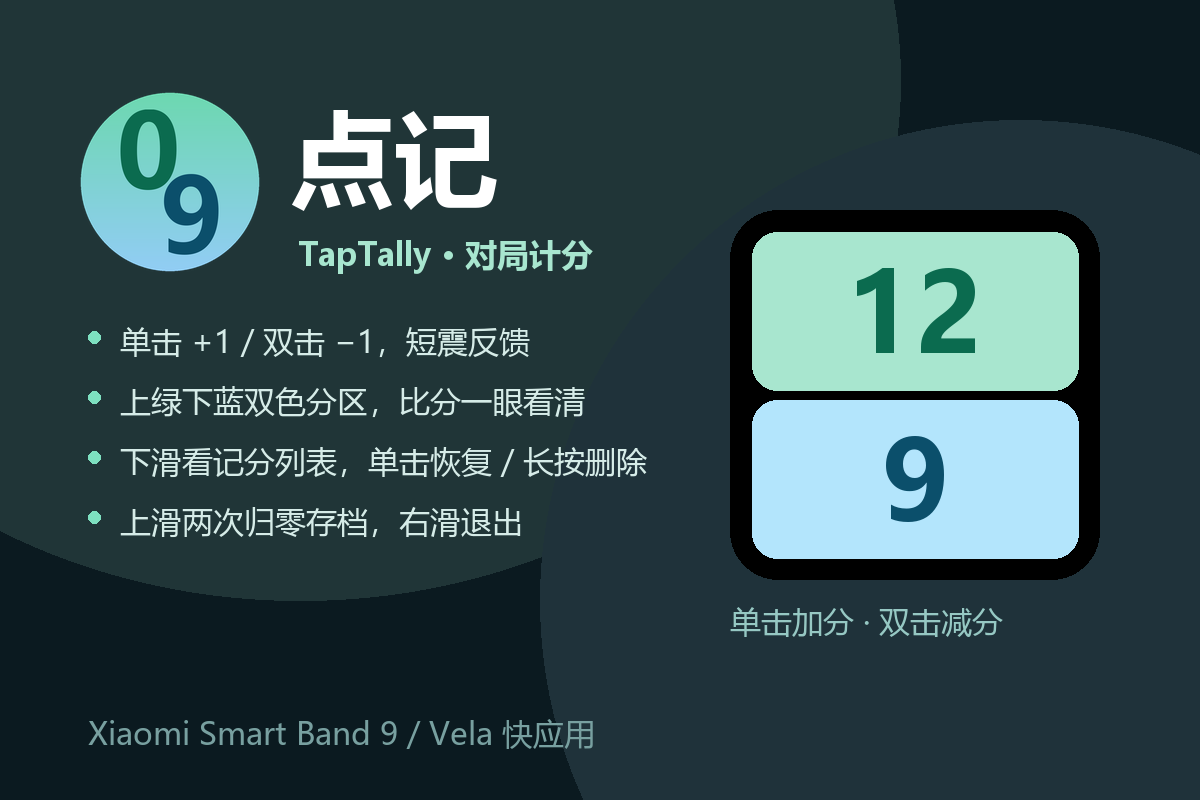
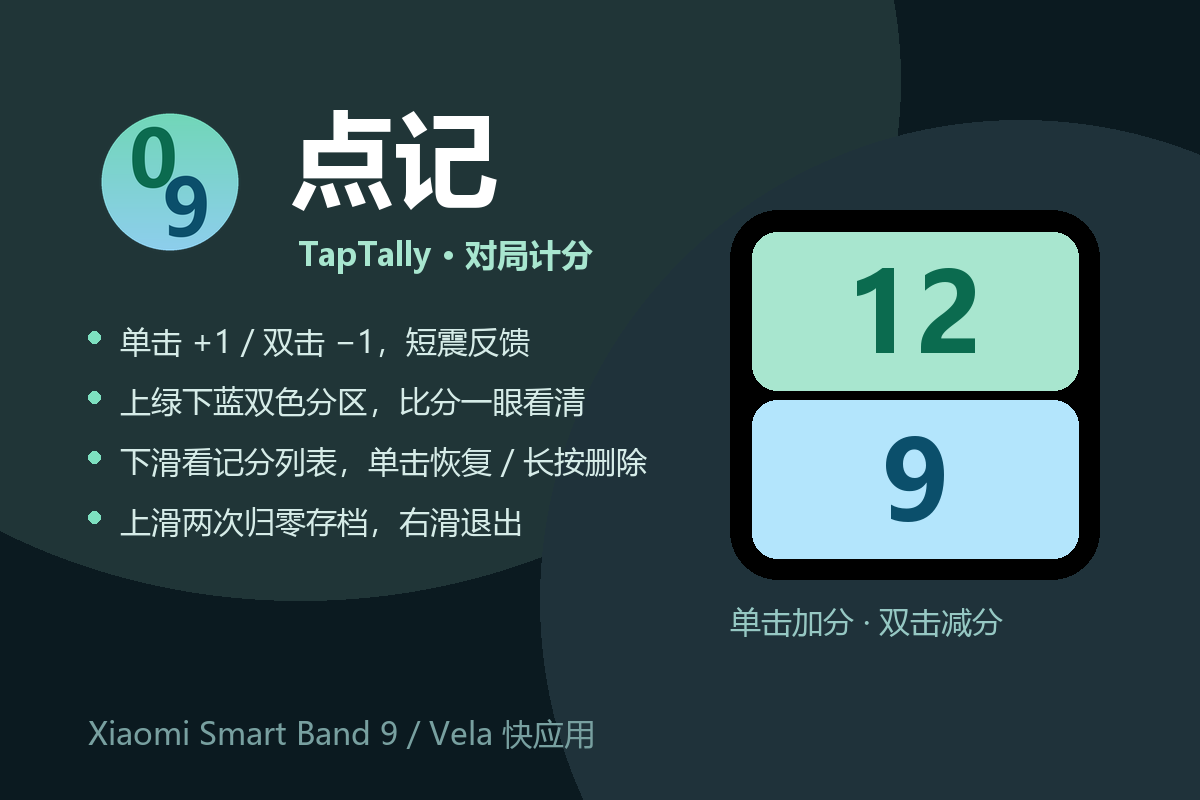
fix: 1.4.1 图标加 12% 留白，数字按内圆等比缩放

Changed region(s): [[0.0617, 0.0938, 0.2158, 0.3438]]

diff --git a/src/common/store.js b/src/common/store.js
@@ -18,7 +18,7 @@ const RECORD_FILE = 'internal://files/taptally-records.txt'
 export const MAX_RECORDS = 5
 
 // 版本号（页面里显示，用来确认手环上跑的到底是哪一版）
-export const APP_VERSION = '1.4.0'
+export const APP_VERSION = '1.4.1'
 
 // 内存缓存
 let scoreCache = null // { t, b }

diff --git a/publish/gen_assets.py b/publish/gen_assets.py
@@ -49,7 +49,7 @@ def vgrad_circle(size, c_top, c_bot):
     return base.resize((size, size), Image.BILINEAR)
 
 
-def make_logo(size, ss=4, digit_fs=0.576, stag=0.120, overlap=0.200):
+def make_logo(size, ss=4, digit_fs=0.576, stag=0.120, overlap=0.200, pad_ratio=0.120):
     """圆形图标：上绿下蓝竖向渐变（无分隔线）。
 
     数字布局按用户给的规则：
@@ -59,21 +59,26 @@ def make_logo(size, ss=4, digit_fs=0.576, stag=0.120, overlap=0.200):
     """
     S = size * ss
     grad = vgrad_circle(S, GREEN_C, BLUE_C).convert("RGBA")
+    # 圆形四周留透明边距：手环列表里原生图标的视觉直径都比画布小一圈，
+    # 我们自己画满会导致「图标比别家大一圈、把下面的应用名挤掉」
+    pad = int(S * pad_ratio)
     mask = Image.new("L", (S, S), 0)
-    pad = int(S * 0.005)
     ImageDraw.Draw(mask).ellipse([pad, pad, S - 1 - pad, S - 1 - pad], fill=255)
     img = Image.new("RGBA", (S, S), (0, 0, 0, 0))
     img.paste(grad, (0, 0), mask)
 
     d = ImageDraw.Draw(img)
-    font = ImageFont.truetype(FONT_B, int(S * digit_fs))
+    # 数字整体按内圆等比缩放：留白加大后，数字跟着缩小，避免压到圆弧外
+    k = 1.0 - 2.0 * pad_ratio
+    font = ImageFont.truetype(FONT_B, max(8, int(S * digit_fs * k)))
     bb0 = d.textbbox((0, 0), "0", font=font)
     bb9 = d.textbbox((0, 0), "9", font=font)
     h = max(bb0[3] - bb0[1], bb9[3] - bb9[1])
     dyc = 0.5 * (1.0 - overlap) * h       # 中心到中心的竖直距离
+    off = stag * k                         # 水平错开（按内圆等比缩放）
     for txt, bb, cx, cy, color in (
-            ("0", bb0, 0.5 - stag, 0.5 - dyc / S, GREEN_TXT),
-            ("9", bb9, 0.5 + stag, 0.5 + dyc / S, BLUE_TXT)):
+            ("0", bb0, 0.5 - off, 0.5 - dyc / S, GREEN_TXT),
+            ("9", bb9, 0.5 + off, 0.5 + dyc / S, BLUE_TXT)):
         w, hh = bb[2] - bb[0], bb[3] - bb[1]
         d.text((S * cx - w / 2 - bb[0], S * cy - hh / 2 - bb[1]), txt, font=font, fill=color)
     return img.resize((size, size), Image.LANCZOS)

diff --git a/publish/gen_launcher_preview.py b/publish/gen_launcher_preview.py
@@ -1,0 +1,48 @@
+# -*- coding: utf-8 -*-
+"""模拟手环应用列表：比较不同留白比例下的图标观感（含应用名）。"""
+import os
+from PIL import Image, ImageDraw, ImageFont
+import gen_assets as ga
+
+HERE = os.path.dirname(os.path.abspath(__file__))
+FONT_R = r"C:\Windows\Fonts\msyh.ttc"
+FONT_B = r"C:\Windows\Fonts\msyhbd.ttc"
+BG = (10, 16, 20)
+PADS = [0.00, 0.06, 0.10, 0.14]
+
+
+def tile(pad, canvas=128):
+    """按手环列表的样子画一格：图标 + 下方应用名。"""
+    S = 200
+    img = Image.new("RGB", (S, S), BG)
+    d = ImageDraw.Draw(img)
+    # 系统圆形遮罩：整块画布内切圆
+    mask = Image.new("L", (canvas, canvas), 0)
+    ImageDraw.Draw(mask).ellipse([0, 0, canvas - 1, canvas - 1], fill=255)
+    logo = ga.make_logo(canvas, pad_ratio=pad).convert("RGB")
+    circle = Image.new("RGB", (canvas, canvas), BG)
+    circle.paste(logo, (0, 0), mask)
+    big = circle.resize((128, 128), Image.LANCZOS)
+    img.paste(big, ((S - 128) // 2, 12))
+    f = ImageFont.truetype(FONT_R, 26)
+    txt = "点记"
+    bb = d.textbbox((0, 0), txt, font=f)
+    d.text(((S - (bb[2] - bb[0])) / 2, 150), txt, font=f, fill=(220, 232, 236))
+    return img
+
+
+def main():
+    W, H = 200 * len(PADS), 200
+    canvas = Image.new("RGB", (W, H), BG)
+    d = ImageDraw.Draw(canvas)
+    f = ImageFont.truetype(FONT_B, 18)
+    for i, pad in enumerate(PADS):
+        canvas.paste(tile(pad), (i * 200, 0))
+        d.text((i * 200 + 12, 4), "留白 %d%%" % round(pad * 100), font=f, fill=(120, 190, 190))
+    out = os.path.join(HERE, "icon-padding-compare.png")
+    canvas.save(out)
+    print("wrote", out)
+
+
+if __name__ == "__main__":
+    main()

diff --git a/docs/CHANGELOG.md b/docs/CHANGELOG.md
@@ -102,3 +102,9 @@
 - 图标数字再放大 20%（0.48S → **0.576S**），左右错开再加大 20%（±0.10S → **±0.12S**），上下重叠仍为 20%
 - 实测 128px 图内最深色像素距圆心 54.8px / 半径 64px（占比 0.856），仍留 ~14% 安全边距；
   再放大 20% 起会压到圆边，届时需同步把数字往中心收
+
+## 1.4.1（versionCode 17）
+
+- 图标四周加 **12% 透明留白**：手环列表按圆形裁切，之前画满导致视觉上「比原生图标大一圈、把应用名挤下去」
+- 数字改为**按内圆等比缩放**（`k = 1 - 2×pad_ratio`），留白加大后数字自动跟着收，不会压出圆弧
+- 新增 `publish/gen_launcher_preview.py` 与 `publish/icon-padding-compare.png`（0%/6%/10%/14% 留白对比）
